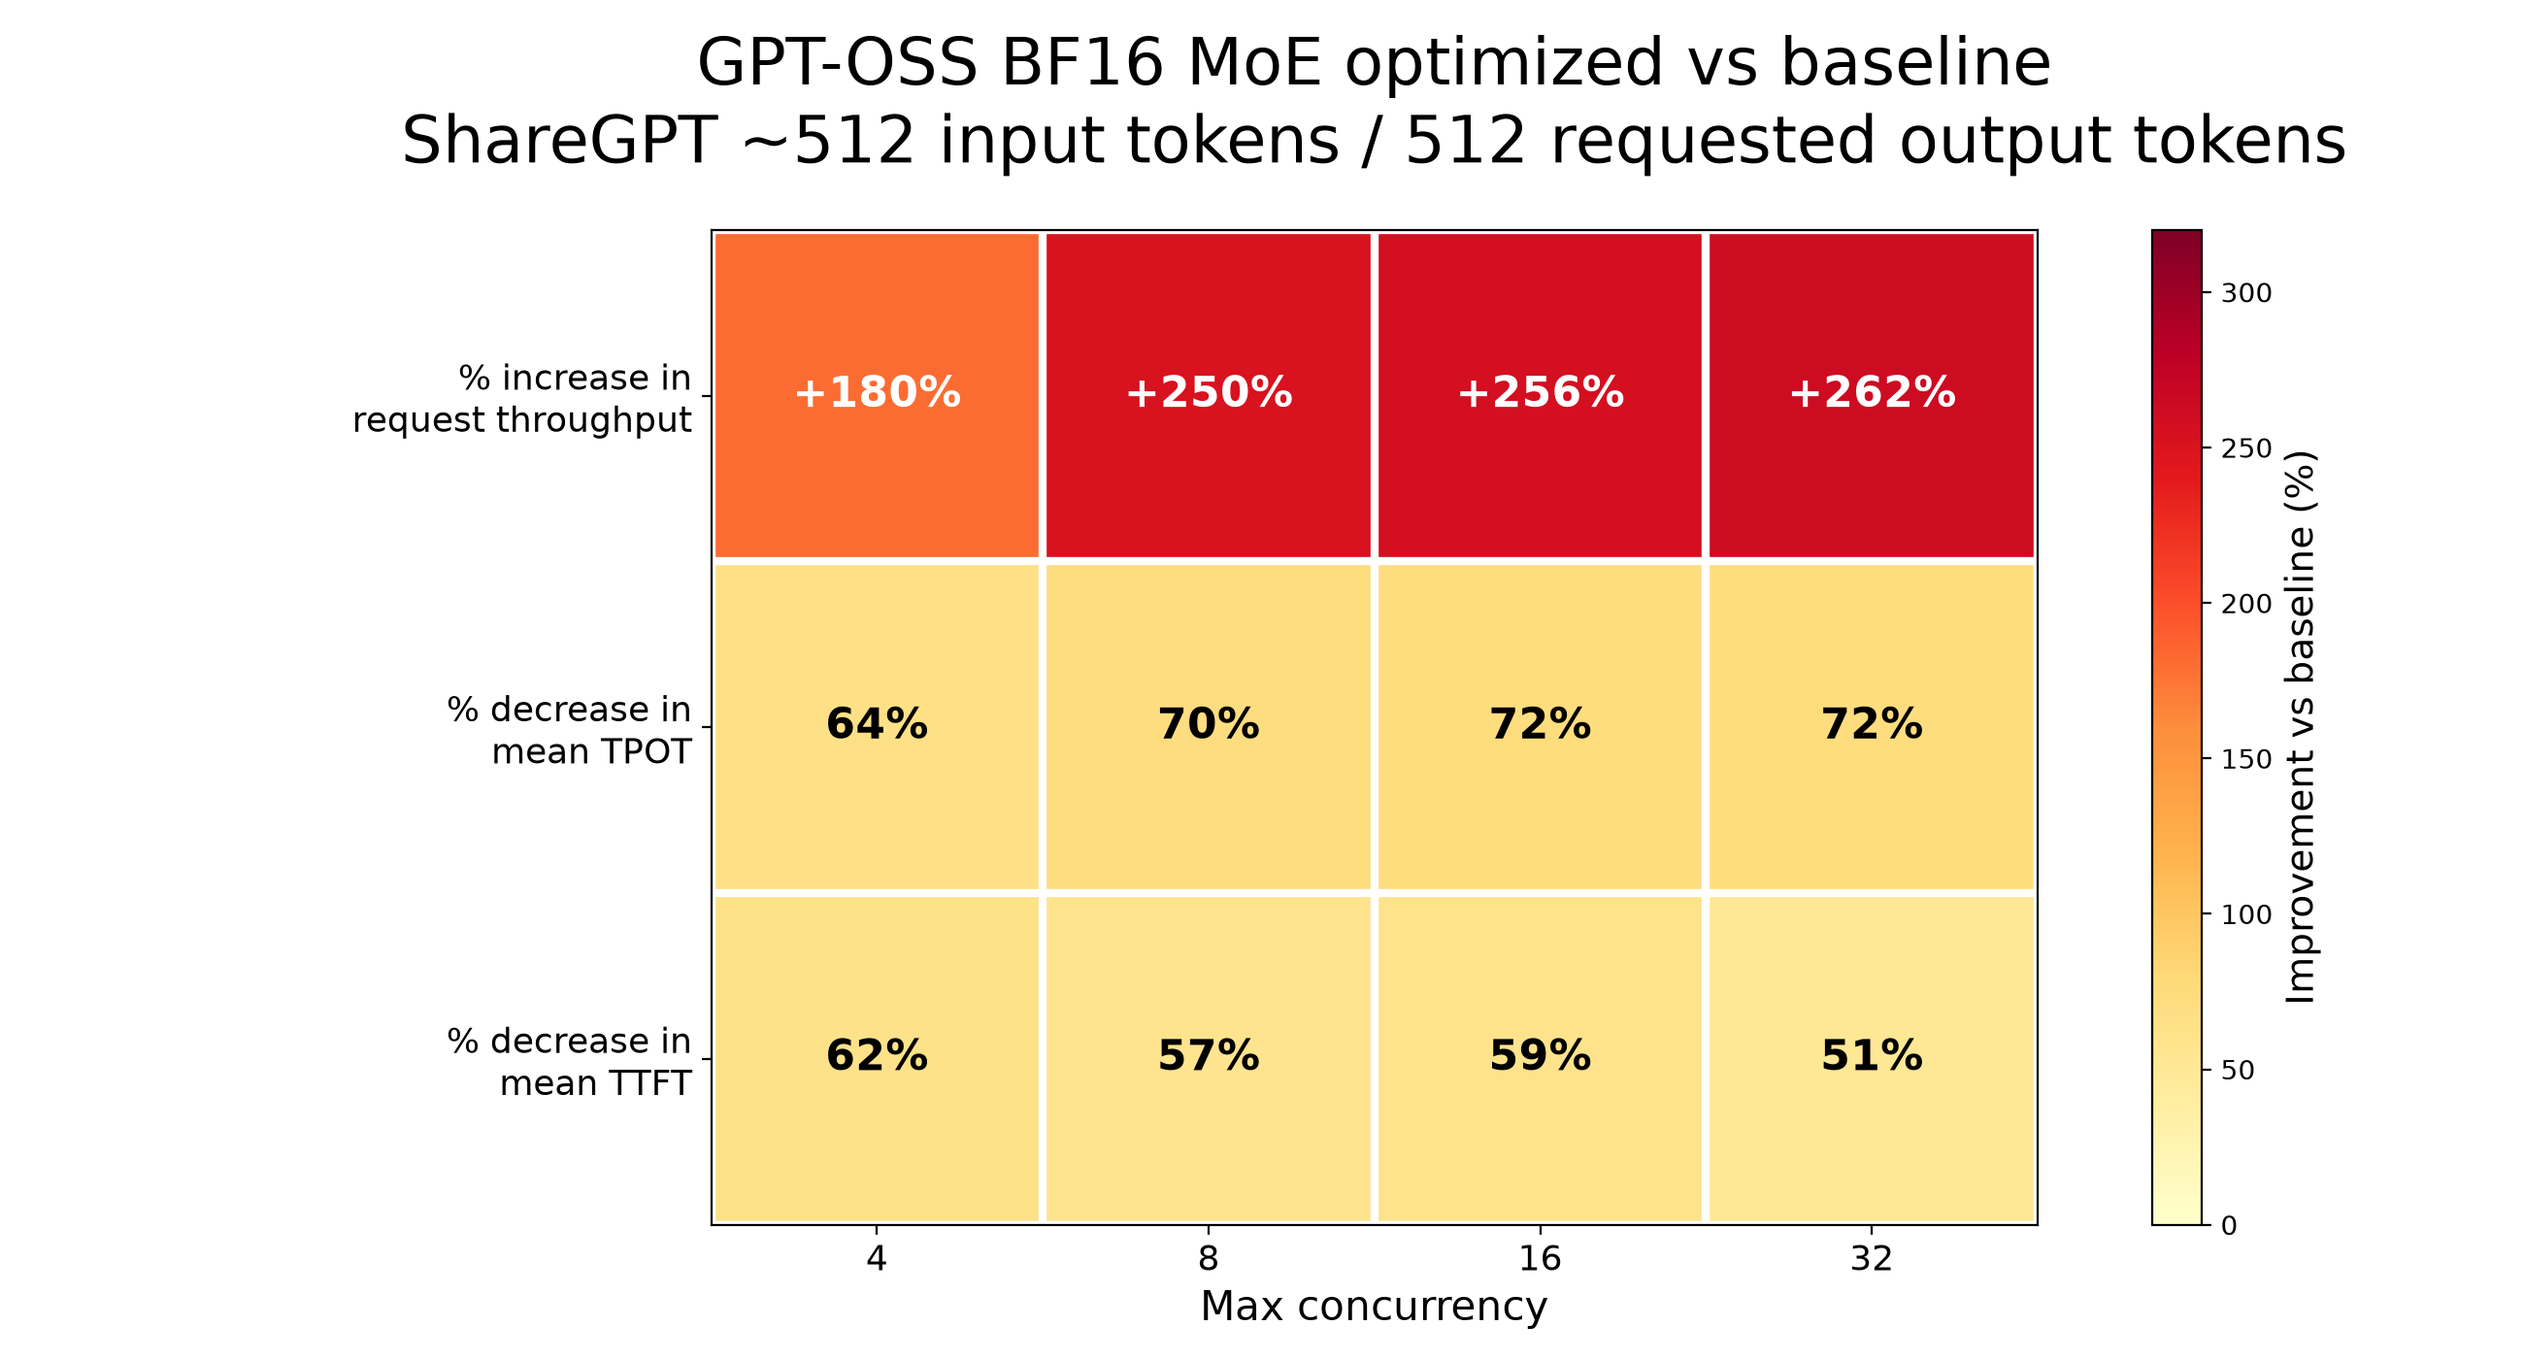
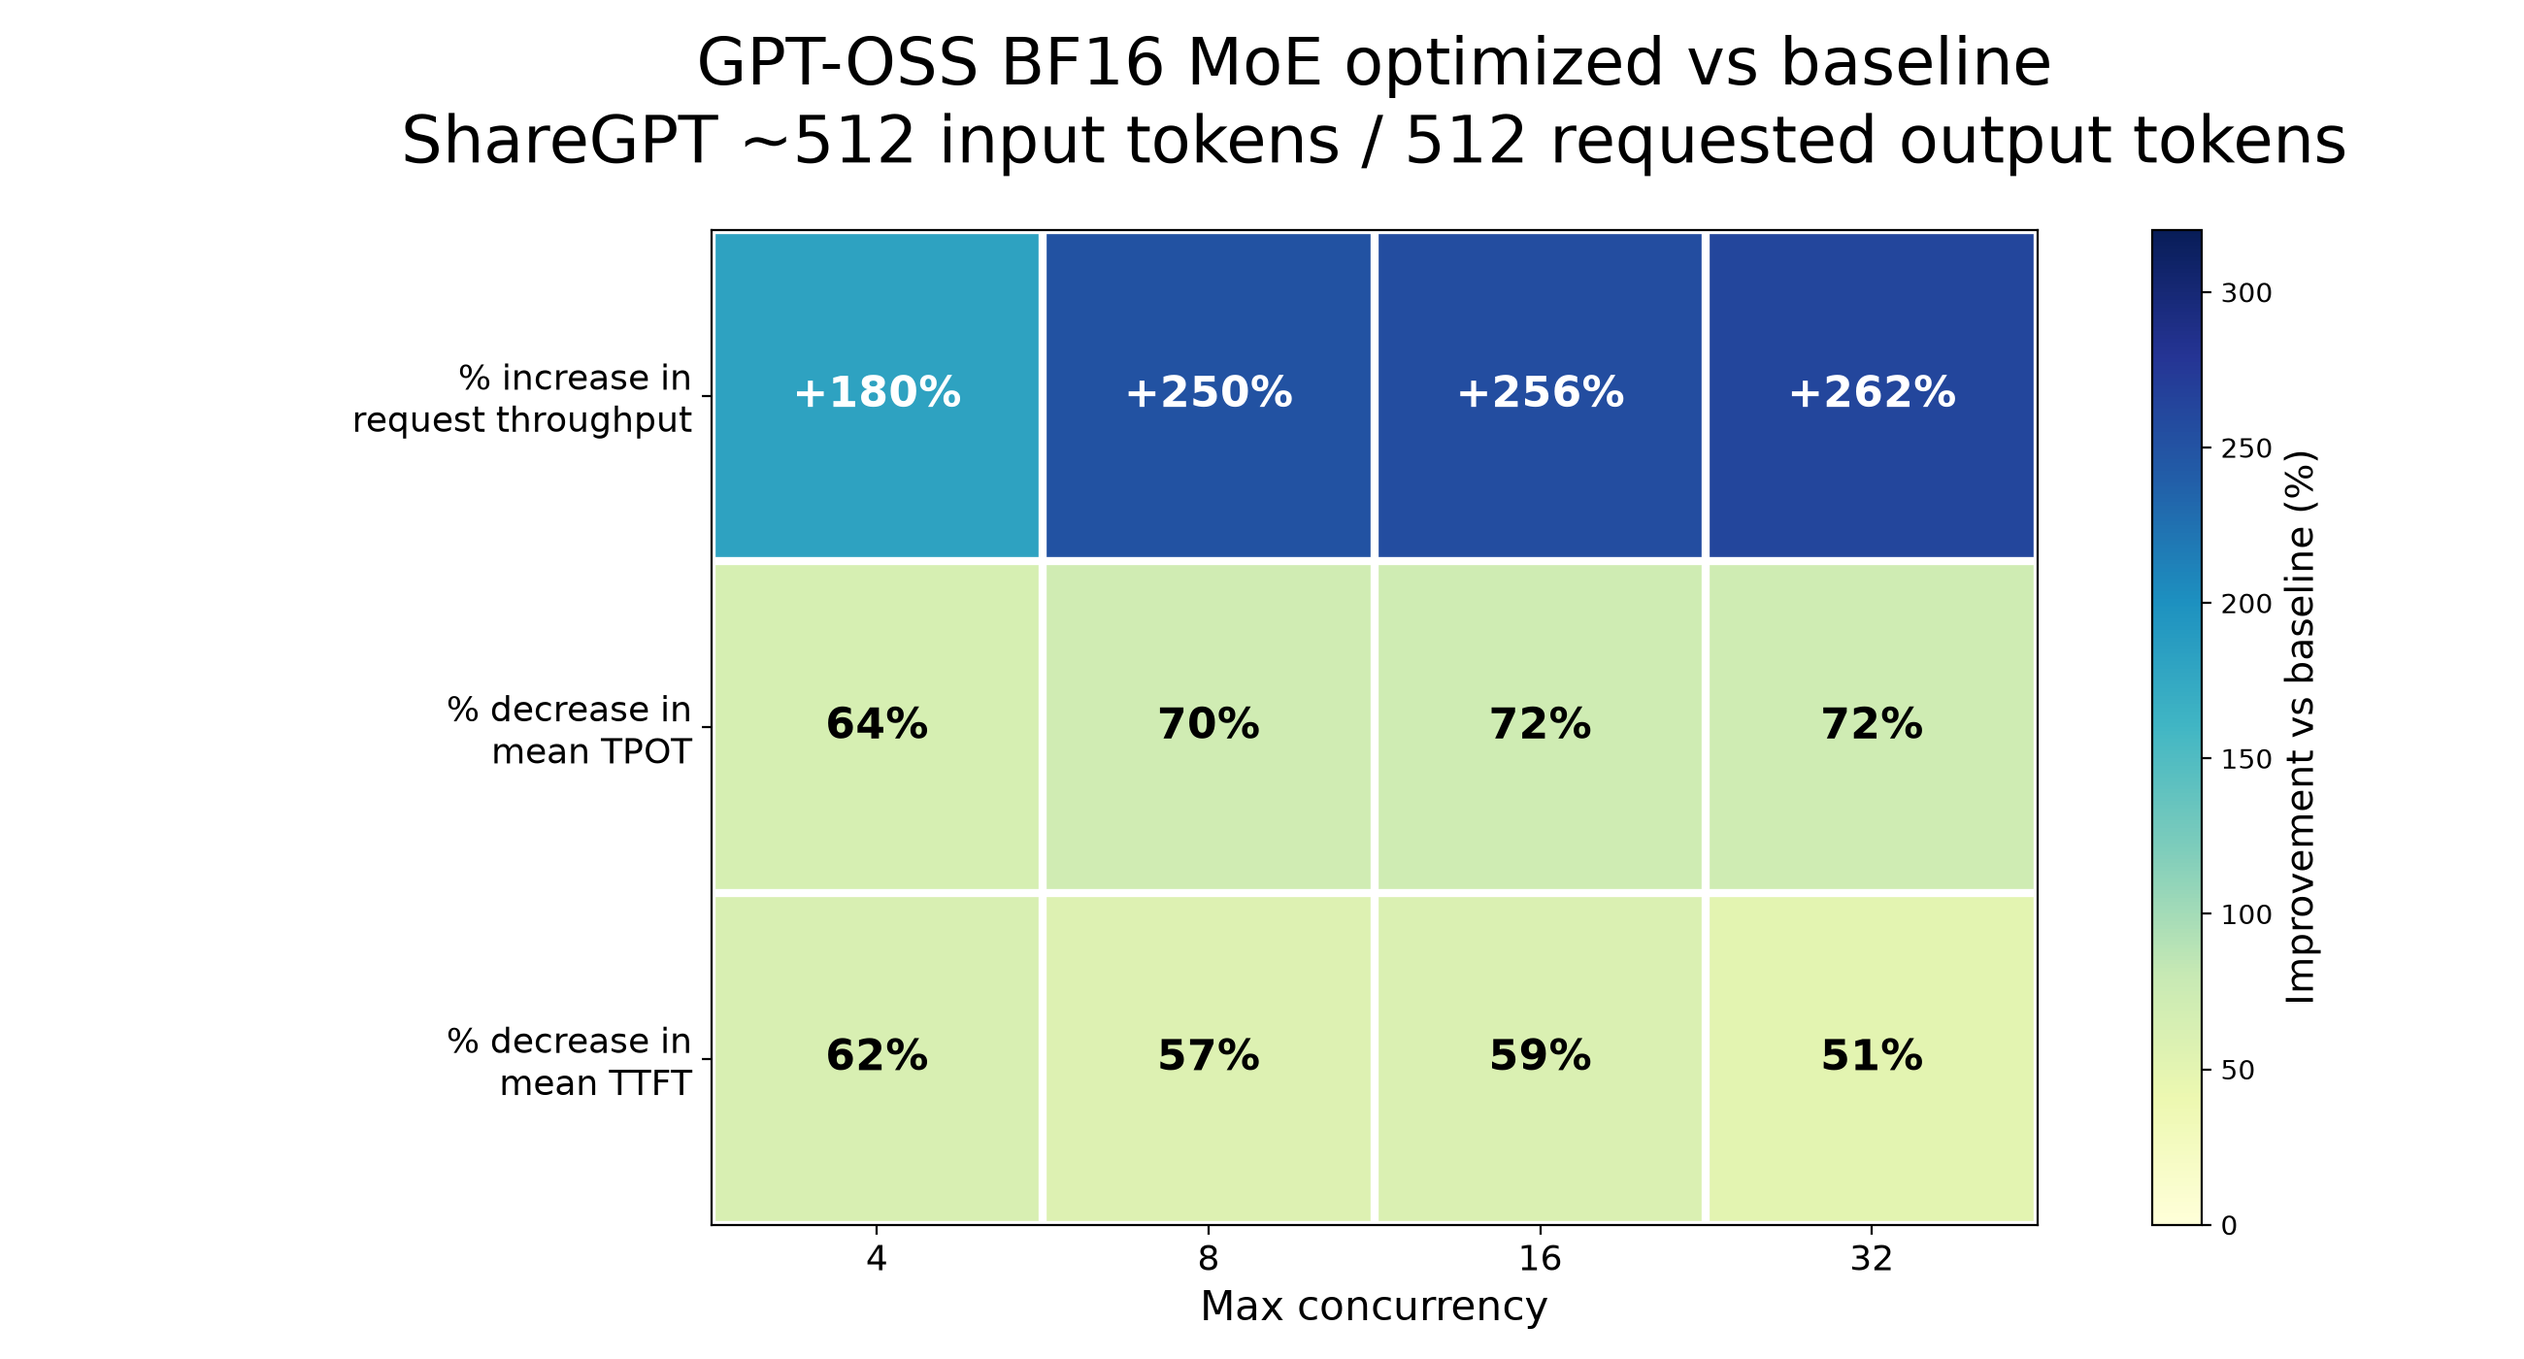
Update vLLM MoE Learning Path review feedback

diff --git a/content/learning-paths/servers-and-cloud-computing/vllm-moe/1-overview-and-setup.md b/content/learning-paths/servers-and-cloud-computing/vllm-moe/1-overview-and-setup.md
@@ -16,6 +16,10 @@ You will serve Mixture of Experts (MoE) models on Arm CPUs, validate responses, 
 
 MoE layers contain multiple expert networks. For each token, a router selects a subset of those experts.
 
+The following diagram shows the high-level routing flow for an MoE layer:
+
+![MoE routing flow](images/moe-routing.png)
+
 This can reduce compute compared with activating the full model, but it also makes inference performance depend heavily on routing, batching, and optimized expert kernels.
 
 This Learning Path focuses on two MoE paths:
@@ -24,6 +28,8 @@ This Learning Path focuses on two MoE paths:
 - INT8/W8A8 (8-bit weights and activations) MoE inference and benchmarking
 
 ## Understand the models you'll use
+
+This Learning Path compares MoE serving performance before and after vLLM added an optimized unquantized MoE execution path for AArch64. The optimized path enables the CPU FusedMoE kernel on Arm CPUs and accelerates the BF16 expert GEMMs used inside MoE layers.
 
 [Gemma 4 26B-A4B](https://huggingface.co/google/gemma-4-26B-A4B-it) is a multimodal MoE model. You will use its text-generation capability in BF16.
 
@@ -80,7 +86,7 @@ The flags identify the instructions used by the optimized paths:
 W8A8 is a quantization format, so there is no CPU flag named `w8a8`. These checks confirm instruction availability; running the models later in this Learning Path verifies that your vLLM build and model configuration work together.
 
 
-## Install build dependencies
+## Install Dependencies
 
 Install the following packages required for running vLLM on Arm. PyTorch's Inductor backend needs `g++` to compile CPU code during model warmup, even when you install vLLM from a prebuilt wheel. The `curl` and `wget` tools are used for API requests and downloads:
 
@@ -102,14 +108,14 @@ python -m pip install --upgrade pip
 ## Install vLLM for CPU
 
 {{% notice Note %}}
-Use vLLM 0.27.1 with Transformers 5.14.1 for this Learning Path. Newer Transformers versions, including 5.20.2, can cause Gemma 4 startup to fail with `AmbiguousGlobalPerLayerAttributeError`. They expose `head_dim` per layer, while this vLLM release reads it as a global attribute. The command pins Transformers to avoid this mismatch. For details, see the [vLLM Gemma 4 compatibility issue](https://github.com/vllm-project/vllm/issues/51744).
+Use vLLM 0.31.0 for this Learning Path. This version was validated with Gemma 4, GPT-OSS, Qwen3 BF16, and Qwen3 W8A8 on Arm CPUs. The command installs the CPU-specific vLLM wheel used for the benchmark validation. For other versions, see the [vLLM releases page](https://github.com/vllm-project/vllm/releases).
 {{% /notice %}}
 
 Install a CPU-specific build of vLLM:
 
 ```bash
-export VLLM_VERSION=0.27.1
-python -m pip install https://github.com/vllm-project/vllm/releases/download/v${VLLM_VERSION}/vllm-${VLLM_VERSION}+cpu-cp38-abi3-manylinux_2_34_aarch64.whl "transformers==5.14.1" --extra-index-url https://download.pytorch.org/whl/cpu
+export VLLM_VERSION=0.31.0
+python -m pip install "https://github.com/vllm-project/vllm/releases/download/v${VLLM_VERSION}/vllm-${VLLM_VERSION}%2Bcpu-cp38-abi3-manylinux_2_39_aarch64.whl" --extra-index-url https://download.pytorch.org/whl/cpu
 ```
 
 If you want to build vLLM from source, follow the instructions in the [Build and Run vLLM on Arm Servers Learning Path](/learning-paths/servers-and-cloud-computing/vllm/vllm-setup/).
@@ -127,9 +133,9 @@ python -c "from importlib.metadata import version; print('transformers:', versio
 The expected output for the package versions used in the public-wheel validation is:
 
 ```output
-vLLM: 0.27.1+cpu
+vLLM: 0.31.0+cpu
 torch: 2.13.0+cpu
-transformers: 5.14.1
+transformers: 5.17.0
 ```
 
 ## Configure vLLM KV cache space

diff --git a/content/learning-paths/servers-and-cloud-computing/vllm-moe/4-benchmarking.md b/content/learning-paths/servers-and-cloud-computing/vllm-moe/4-benchmarking.md
@@ -10,10 +10,6 @@ layout: learningpathall
 
 Use `vllm bench serve` to measure throughput and latency while a model serves concurrent requests.
 
-{{% notice Note %}}
-Benchmark validation is pending in this draft. The model-specific ShareGPT subsets referenced here are not yet supplied, and there is no subset-generation script. The download command provides the full dataset only. Obtain the subsets before running the ~512-input-token benchmarks; otherwise, the commands fail with `FileNotFoundError`.
-{{% /notice %}}
-
 The benchmark sends requests to the vLLM OpenAI-compatible API server at:
 
 ```text
@@ -35,7 +31,66 @@ Download the full ShareGPT dataset into this directory:
 wget https://huggingface.co/datasets/anon8231489123/ShareGPT_Vicuna_unfiltered/resolve/main/ShareGPT_V3_unfiltered_cleaned_split.json
 ```
 
-The reported results use subsets selected with each model tokenizer for approximately 512 input tokens. Downloading the full dataset does not create those subsets. For a general serving test, you can use `--dataset-path ./ShareGPT_V3_unfiltered_cleaned_split.json` instead, but that workload is not comparable to the reported ~512-input-token results. Renaming the full dataset does not reproduce a subset.
+The reported results use subsets selected with each model tokenizer for approximately 512 input tokens. Downloading the full dataset does not create those subsets. Create the model-specific subsets before running the benchmark commands.
+
+## Create ShareGPT prompt subsets
+
+Create a file named `create_sharegpt_512_subsets.py`:
+
+```python
+import json
+from pathlib import Path
+from transformers import AutoTokenizer
+
+INPUT = Path("ShareGPT_V3_unfiltered_cleaned_split.json")
+
+MODELS = {
+    "gemma4": "google/gemma-4-26B-A4B-it",
+    "gptoss": "unsloth/gpt-oss-20b-BF16",
+    "qwen": "Qwen/Qwen3-30B-A3B-Thinking-2507",
+}
+
+TOKEN_RANGE = (460, 580)
+MAX_SAMPLES = 256
+
+data = json.loads(INPUT.read_text())
+
+for model_name, model_id in MODELS.items():
+    tokenizer = AutoTokenizer.from_pretrained(model_id)
+    rows = []
+
+    for item in data:
+        conversations = item.get("conversations") or item.get("conversation")
+        if not conversations:
+            continue
+
+        first = conversations[0]
+        prompt = first.get("value") or first.get("content")
+        if not prompt:
+            continue
+
+        n_tokens = len(tokenizer.encode(prompt))
+
+        if TOKEN_RANGE[0] <= n_tokens <= TOKEN_RANGE[1] and len(rows) < MAX_SAMPLES:
+            rows.append(item)
+
+    out = Path(f"sharegpt_{model_name}_512.json")
+    out.write_text(json.dumps(rows, indent=2))
+    print(f"{model_name}: {len(rows)} samples -> {out}")
+```
+Run the script:
+
+```bash
+python create_sharegpt_512_subsets.py
+```
+
+This creates the subset files used by the benchmark commands:
+
+```text
+sharegpt_gemma4_512.json
+sharegpt_gptoss_512.json
+sharegpt_qwen_512.json
+```
 
 ## Benchmark setup
 
@@ -80,7 +135,7 @@ vllm bench serve \
   --endpoint /v1/chat/completions \
   --save-result \
   --result-dir bench_out \
-  --result-filename gemma4_sharegpt_mc${C}.json \
+  --result-filename gemma4_bf16_sharegpt_mc${C}.json \
   --num-warmups 5
 ```
 

diff --git a/content/learning-paths/servers-and-cloud-computing/vllm-moe/5-results.md b/content/learning-paths/servers-and-cloud-computing/vllm-moe/5-results.md
@@ -9,7 +9,7 @@ layout: learningpathall
 ## Interpret the reported results
 
 {{% notice Note %}}
-These author-reported measurements are retained for review while benchmark validation is pending. Reproduction requires the missing prompt subsets, exact baseline and optimized build configurations, and raw result files. The current instructions install only the optimized release.
+The results shown are author-reported measurements from the benchmark configuration described in this Learning Path. Your results can vary depending on hardware, package versions, server settings, and system load.
 {{% /notice %}}
 
 These benchmarks focus on serving performance only. They compare request throughput, output token throughput, TTFT, and TPOT across BF16 and INT8/W8A8 runs.
@@ -32,6 +32,8 @@ The reported optimized BF16 MoE runs improve Gemma 4 request throughput by aroun
 
 These ratios describe the reported configuration; they are not a performance guarantee for other Arm servers.
 
+![Gemma4 BF16 speedup for ShareGPT 512](images/gemma4_512_new.png)
+
 ## GPT-OSS BF16 MoE
 
 GPT-OSS was benchmarked with ShareGPT ~512 input-token prompt subsets.
@@ -42,7 +44,7 @@ The reported optimized BF16 MoE runs improve GPT-OSS request throughput by aroun
 | --- | ---: | ---: | ---: |
 | ShareGPT ~512 input tokens | 2.80x - 3.62x | 2.74x - 3.50x | 64% - 72% |
 
-In the tested vLLM 0.27.1+cpu setup, GPT-OSS required local Harmony/tiktoken encoding files during serving and benchmarking.
+![GPT-OSS BF16 speedup for ShareGPT 512](images/gptoss_512_new.png)
 
 ## Qwen3 BF16 and INT8/W8A8 MoE
 
@@ -65,24 +67,10 @@ The reported measurements indicate two improvements:
 - BF16 MoE optimization improves regular BF16 MoE models.
 - INT8/W8A8 MoE support provides an additional optimized path compared with BF16.
 
-## Plots
-
-The following plots show relative speedups for the ShareGPT ~512 input-token subset with 512 requested output tokens.
-
-### Gemma 4 BF16 before and after optimization
-
-![Gemma 4 BF16 speedup for ShareGPT 512](images/gemma4_512_new.png)
-
-### GPT-OSS BF16 before and after optimization
-
-![GPT-OSS BF16 speedup for ShareGPT 512](images/gptoss_512_new.png)
-
-### Qwen3 BF16 and INT8/W8A8 comparison
-
-![Qwen3 BF16 and INT8/W8A8 speedup for ShareGPT 512](images/qwen_512_new.webp)
+![Qwen3 BF16 and INT8/W8A8 speedup for ShareGPT 512](images/qwen_512_new.png)
 
 ## What you've accomplished
 
 You've now reviewed the benchmark results for BF16 and INT8/W8A8 MoE inference with vLLM on Arm CPUs.
 
-Use the same workload and concurrency when comparing your results. Full reproduction of these ratios remains pending until the benchmark inputs and baseline configuration are supplied.
+Use the same workload, package versions, server settings, and concurrency values when comparing your results.

diff --git a/content/learning-paths/servers-and-cloud-computing/vllm-moe/2-moe-models.md b/content/learning-paths/servers-and-cloud-computing/vllm-moe/2-moe-models.md
@@ -51,7 +51,37 @@ For model quantization workflows, see the [vLLM quantization Learning Path](/lea
 
 The reported benchmarks compare two optimization effects:
 
-- The BF16 comparison shows the impact of the optimized unquantized MoE path for AArch64. The pre-optimization path did not use the AArch64 FusedMoE kernel for BF16 MoE layers, while the optimized path enables that kernel and uses an AdvSIMD BFMMLA micro-kernel to accelerate the `w13` and `w2` expert matrix multiplications.
+### BF16 MoE optimization
+
+The BF16 comparison shows the impact of enabling a faster BF16 MoE path on AArch64. Before this optimization, AArch64 BF16 MoE execution did not use the CPU FusedMoE kernel, so the expert work followed a more general CPU path:
+
+```text
+Before:
+    route tokens to experts
+    for each selected expert:
+        run w13 BF16 expert GEMM
+        apply activation
+        run w2 BF16 expert GEMM
+    combine expert outputs
+```
+
+This is correct, but it is not ideal for serving because MoE routing creates many expert-specific GEMMs. Running those through a general path adds overhead around the main matrix-multiply work.
+
+The optimized path adds an Arm-specific CPU FusedMoE path. It packs the routed token data and uses Arm BFMMLA instructions to speed up the `w13` and `w2` BF16 expert GEMMs:
+
+```text
+After:
+    route tokens to experts
+    pack routed token data for the fused MoE kernel
+    run fused MoE on AArch64:
+        run w13 BF16 expert GEMM with BFMMLA
+        apply activation
+        run w2 BF16 expert GEMM with BFMMLA
+    combine expert outputs
+```
+
+This improves performance because the expert data is arranged for the fused kernel and the main BF16 matrix-multiply work uses Arm's faster BF16 instruction path.
+
 - The INT8/W8A8 comparison shows the additional benefit of lower-precision MoE execution. W8A8 reduces memory bandwidth pressure by using 8-bit weights and activations. On Arm CPUs with I8MM support, W8A8 can also use SMMLA, Arm's signed INT8 matrix multiply-accumulate instruction, which performs twice as many multiply-accumulate operations per instruction as BFMMLA for BF16. This does not imply a twofold end-to-end serving speedup.
 
 The setup installs the optimized release only. Reproducing the before-and-after comparison also needs the baseline build and configuration, which are pending in this draft.

diff --git a/content/learning-paths/servers-and-cloud-computing/vllm-moe/3-run-inference.md b/content/learning-paths/servers-and-cloud-computing/vllm-moe/3-run-inference.md
@@ -23,23 +23,6 @@ Use the following model IDs in the `vllm serve` and `curl` commands.
 | Qwen3 BF16 | `Qwen/Qwen3-30B-A3B-Thinking-2507` |
 | Qwen3 W8A8 | `RedHatAI/Qwen3-30B-A3B-Thinking-2507-quantized.w8a8` |
 
-## GPT-OSS tiktoken setup
-
-For GPT-OSS only, prepare the local encoding files used by its Harmony message format in the validated setup. Run these commands in the server terminal before starting GPT-OSS; skip this step for Gemma 4 and Qwen3:
-
-```bash
-mkdir -p tiktoken_encodings
-
-wget -O tiktoken_encodings/o200k_base.tiktoken \
-  https://openaipublic.blob.core.windows.net/encodings/o200k_base.tiktoken
-
-wget -O tiktoken_encodings/cl100k_base.tiktoken \
-  https://openaipublic.blob.core.windows.net/encodings/cl100k_base.tiktoken
-
-export TIKTOKEN_ENCODINGS_BASE="$PWD/tiktoken_encodings"
-export TIKTOKEN_RS_CACHE_DIR="$PWD/tiktoken_encodings"
-```
-
 ## Start a model server
 
 Use the terminal with your virtual environment active and `VLLM_CPU_KVCACHE_SPACE` set. Set the model ID and start the server. For example, to serve Gemma 4 BF16:
